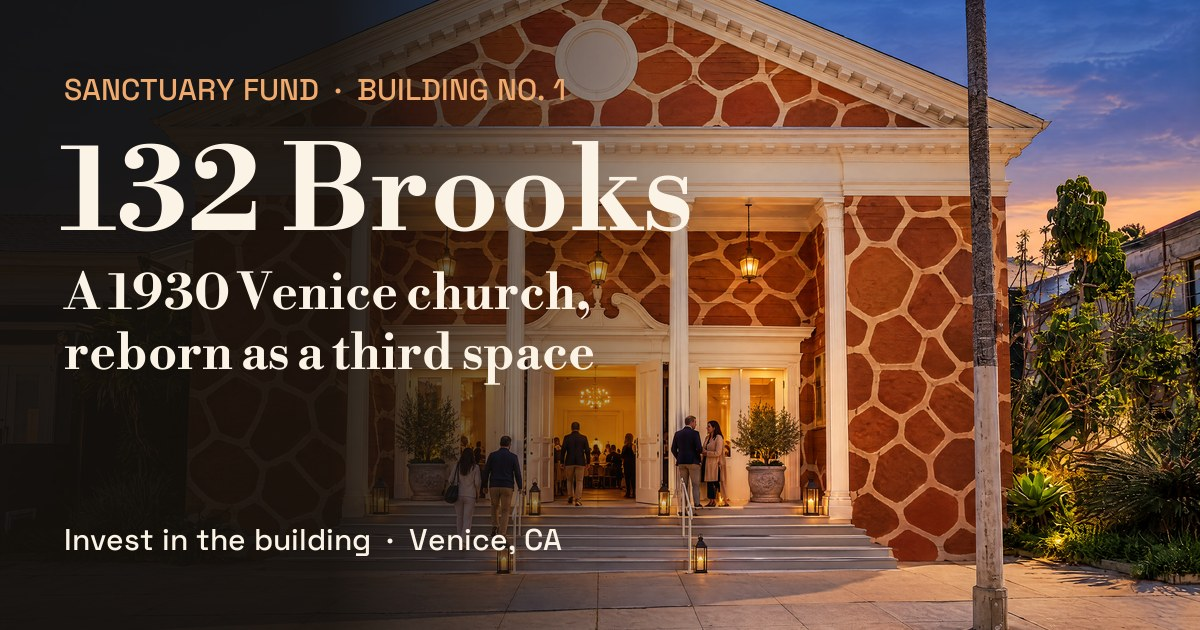
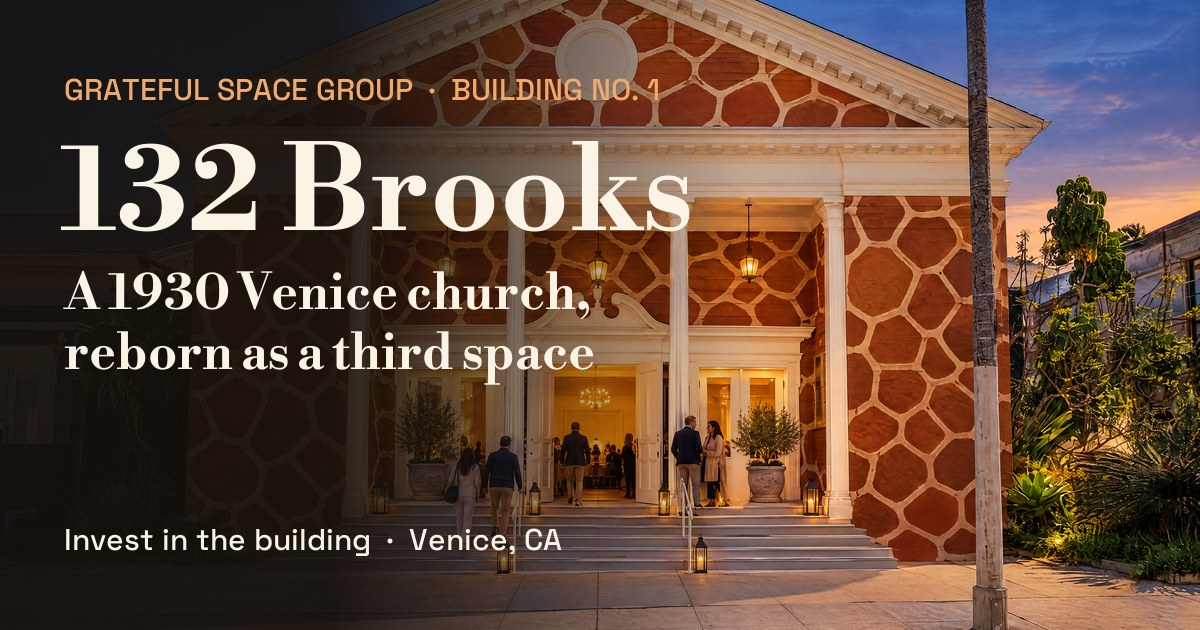
brooks: rebrand to Grateful Space Group, $50K minimum

Changed region(s): [[0.0308, 0.1206, 0.555, 0.181]]

diff --git a/brooks/index.html b/brooks/index.html
@@ -3,13 +3,13 @@
 <head>
 <meta charset="utf-8">
 <meta name="viewport" content="width=device-width, initial-scale=1, viewport-fit=cover">
-<title>132 Brooks · Sanctuary Fund</title>
+<title>132 Brooks · Grateful Space Group</title>
 <meta name="robots" content="noindex, nofollow">
-<meta name="description" content="A 1930 Venice church at Brooks and Main, reborn as a third space. Building No. 1 of the Sanctuary Fund. Private investor preview.">
+<meta name="description" content="A 1930 Venice church at Brooks and Main, reborn as a third space. Building No. 1 for Grateful Space Group. Private investor preview.">
 <meta property="og:type" content="website">
-<meta property="og:site_name" content="Sanctuary Fund">
+<meta property="og:site_name" content="Grateful Space Group">
 <meta property="og:title" content="132 Brooks · a Venice church, reborn">
-<meta property="og:description" content="Building No. 1 of the Sanctuary Fund. See the renderings, the rent and the raise.">
+<meta property="og:description" content="Building No. 1 for Grateful Space Group. See the renderings, the rent and the raise.">
 <meta property="og:url" content="https://grateful.gg/brooks/">
 <meta property="og:image" content="https://grateful.gg/brooks/cover.jpg">
 <meta property="og:image:secure_url" content="https://grateful.gg/brooks/cover.jpg">
@@ -19,7 +19,7 @@
 <meta property="og:image:alt" content="Concept rendering of the church at 132 Brooks Ave painted in a giraffe coat at dusk, doors open">
 <meta name="twitter:card" content="summary_large_image">
 <meta name="twitter:title" content="132 Brooks · a Venice church, reborn">
-<meta name="twitter:description" content="Building No. 1 of the Sanctuary Fund. See the renderings, the rent and the raise.">
+<meta name="twitter:description" content="Building No. 1 for Grateful Space Group. See the renderings, the rent and the raise.">
 <meta name="twitter:image" content="https://grateful.gg/brooks/cover.jpg">
 <link rel="preconnect" href="https://fonts.googleapis.com"><link rel="preconnect" href="https://fonts.gstatic.com" crossorigin>
 <link href="https://fonts.googleapis.com/css2?family=Libre+Bodoni:ital,wght@0,400..700;1,400..700&family=DM+Sans:opsz,wght@9..40,400..700&display=swap" rel="stylesheet">
@@ -266,11 +266,11 @@ dialog.lb::backdrop{background:rgba(10,8,6,.92)}
 
 <header class="nav" id="nav">
   <div class="wrap">
-    <a class="brand" href="#top">Sanctuary Fund</a>
+    <a class="brand" href="#top">Grateful Space Group</a>
     <nav aria-label="Sections">
       <a href="#building">Building</a><a href="#vision">Vision</a><a href="#deal">Deal</a><a href="#income">Income</a><a href="#studio">Studio</a><a href="#fund">Fund</a><a href="#risks">Risks</a>
     </nav>
-    <a class="btn primary small cta" href="mailto:max@gratefulgiraffes.com?subject=132%20Brooks%20%C2%B7%20Sanctuary%20Fund">Talk to Max</a>
+    <a class="btn primary small cta" href="mailto:max@gratefulgiraffes.com?subject=132%20Brooks%20%C2%B7%20Grateful%20Space%20Group">Talk to Max</a>
   </div>
 </header>
 
@@ -278,7 +278,7 @@ dialog.lb::backdrop{background:rgba(10,8,6,.92)}
 <section class="hero" aria-label="132 Brooks Avenue">
   <img src="img/r-portico-dusk.jpg" alt="Concept rendering: the church's portico at dusk, its walls painted in a giraffe coat, front doors open with warm light inside">
   <div class="wrap">
-    <div class="kicker">Sanctuary Fund · Building No. 1 · Private investor preview</div>
+    <div class="kicker">Grateful Space Group · Building No. 1 · Private investor preview</div>
     <h1>132 Brooks Avenue</h1>
     <p class="lede">A 1930 church at Brooks &amp; Main, at the head of Abbot Kinney, reborn as Venice's living room.</p>
     <div class="chips">
@@ -417,7 +417,7 @@ dialog.lb::backdrop{background:rgba(10,8,6,.92)}
         <div>
           <h3>We're raising</h3>
           <div class="big num" data-k="equity"></div>
-          <p style="margin:0;color:var(--soft)">from investors, alongside a <span data-k="loan"></span> bank loan, to buy, retrofit and open 132 Brooks.</p>
+          <p style="margin:0;color:var(--soft)">from investors, alongside a <span data-k="loan"></span> bank loan, to buy, retrofit and open 132 Brooks. Minimum investment $50,000.</p>
           <dl class="kv">
             <div><dt>Price per building sf</dt><dd class="num" data-k="ppsf"></dd></div>
             <div><dt>Price per land sf</dt><dd class="num" data-k="pplsf"></dd></div>
@@ -493,9 +493,9 @@ dialog.lb::backdrop{background:rgba(10,8,6,.92)}
 
 <section id="fund" class="fund">
   <div class="wrap">
-    <p class="eyebrow">Sanctuary Fund</p>
+    <p class="eyebrow">Grateful Space Group</p>
     <h2>The first of many.</h2>
-    <p class="intro">America is closing churches faster than it opens them. Most sit in walkable, established neighborhoods and were built for one thing: bringing people together. Sanctuary Fund buys them, keeps the bones, and turns each one into a third space run by and for its neighbors.</p>
+    <p class="intro">America is closing churches faster than it opens them. Most sit in walkable, established neighborhoods and were built for one thing: bringing people together. Grateful Space Group buys them, keeps the bones, and turns each one into a third space run by and for its neighbors.</p>
     <div class="stats">
       <div class="stat"><div class="v num">4,000</div><p>Protestant churches closed in 2024, while about 3,800 opened. <a href="https://christianpost.com/news/more-protestant-churches-closing-than-opening-in-america.html" target="_blank" rel="noopener">Lifeway Research</a></p></div>
       <div class="stat"><div class="v num">800</div><p>Christian Science congregations left in the U.S. by 2015, down from 1,300 in 1995. 132 Brooks is one of them. <a href="https://religionwatch.web.baylor.edu/news/story/2021/christian-science-fending-obituaries-through-worldly-adaptations" target="_blank" rel="noopener">Baylor Religion Watch</a></p></div>
@@ -553,7 +553,7 @@ dialog.lb::backdrop{background:rgba(10,8,6,.92)}
   <div class="wrap">
     <h2>Want a piece of 132 Brooks?</h2>
     <p>Reply to whoever sent you this, or write to Max for the investor packet and a walk-through of the building.</p>
-    <a class="btn primary" href="mailto:max@gratefulgiraffes.com?subject=132%20Brooks%20%C2%B7%20Sanctuary%20Fund">Email Max</a>
+    <a class="btn primary" href="mailto:max@gratefulgiraffes.com?subject=132%20Brooks%20%C2%B7%20Grateful%20Space%20Group">Email Max</a>
   </div>
 </section>
 </main>
@@ -562,7 +562,7 @@ dialog.lb::backdrop{background:rgba(10,8,6,.92)}
   <div class="wrap">
     <p><b>Private preview for people we know.</b> This page is not an offer to sell, or a solicitation of an offer to buy, any security. Any offering will be made only to accredited investors through definitive offering documents, which will govern over anything here, including the terms of the preferred return, the split and the participation in studio ventures.</p>
     <p>Figures are projections built on the assumptions shown, not guarantees, and actual results will differ. No sale of the property is assumed. Renderings are concepts made from the listing photos and are illustrative only.</p>
-    <p>Listing photos: The MLS (CLAW), listing agent Stephen Weaver. Property facts from the listing and the LA County Assessor, not independently verified. Map © OpenStreetMap contributors. Sanctuary Fund is sponsored by Grateful Giraffes.</p>
+    <p>Listing photos: The MLS (CLAW), listing agent Stephen Weaver. Property facts from the listing and the LA County Assessor, not independently verified. Map © OpenStreetMap contributors. Grateful Space Group is affiliated with Grateful Giraffes, the building's operator.</p>
   </div>
 </footer>
 

diff --git a/brooks/model.js b/brooks/model.js
@@ -1,4 +1,4 @@
-// Sanctuary Fund · 132 Brooks Ave rent model. No sale is assumed: investors hold the building
+// Grateful Space Group · 132 Brooks Ave rent model. No sale is assumed: investors hold the building
 // and are paid from a triple-net master lease to Grateful Giraffes, the operator.
 // Shared by the page (inlined) and node tests: `node model.js` prints both price scenarios.
 const BROOKS = {
